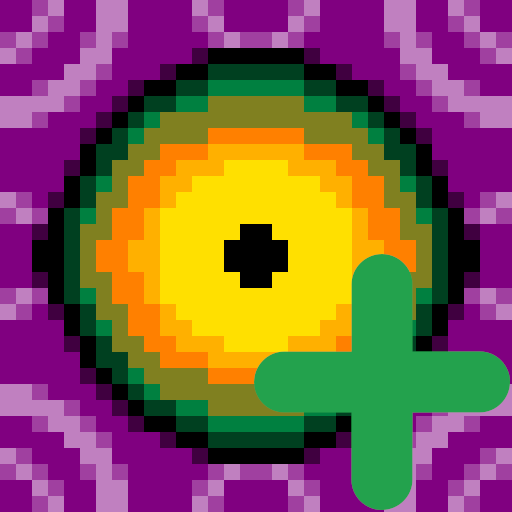
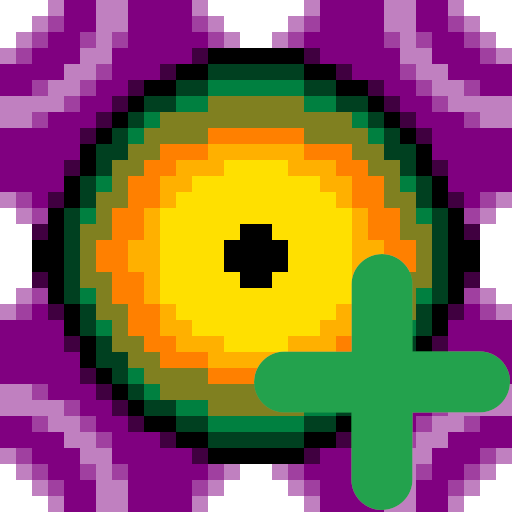
Arreglar regla disparos
Cambiar iconos GUI

diff --git a/src/monstruo/Agente.java b/src/monstruo/Agente.java
@@ -192,7 +192,7 @@ public class Agente implements Ciclico {
 		// Gi,j && At-1 = NORTE => M0,j-1 && M1,j-1 … Mn,j-1
 		if (G && accionp == Acciones.DESPLAZARSE_NORTE) {
 			for (int j = 0; j < ancho; j++) {
-				if (get(j, Y-1, Estado.SIN_CONSUMIR)) {
+				if (get(j, Y - 1, Estado.SIN_CONSUMIR)) {
 					sinConsumir--;
 				}
 				set(j, Y - 1, Estado.MURO);
@@ -373,11 +373,12 @@ public class Agente implements Ciclico {
 			for (int i = 0; i < 4 && accion == Acciones.NINGUNA; i++) {
 				int XX = X + X_OFFSET[i];
 				int YY = Y + Y_OFFSET[i];
-				if (get(XX, YY, Estado.POSIBLE_MONSTRUO) && num_proyectiles > 0) {
+				if (get(XX, YY, Estado.POSIBLE_MONSTRUO) && !get(X, Y, Estado.DISPARADO_NORTE + i) && num_proyectiles > 0) {
 					if (sinConsumir == 0) {
 						accion = 4 + i;
 						num_proyectiles--;
 						set(X, Y, Estado.DISPARADO_NORTE + i);
+						System.out.println("Disparar hacia " + i + " (quedan " + num_proyectiles + " balas)");
 						break;
 					}
 				}

diff --git a/src/monstruo/Entorno.java b/src/monstruo/Entorno.java
@@ -85,7 +85,7 @@ public class Entorno extends JPanel implements Ciclico {
 
 		bombas = new ArrayList<>();
 
-		numAgentes = 4;
+		numAgentes = 1;
 		numMonstruos = 0;
 		numTesoros = 0;
 	}
